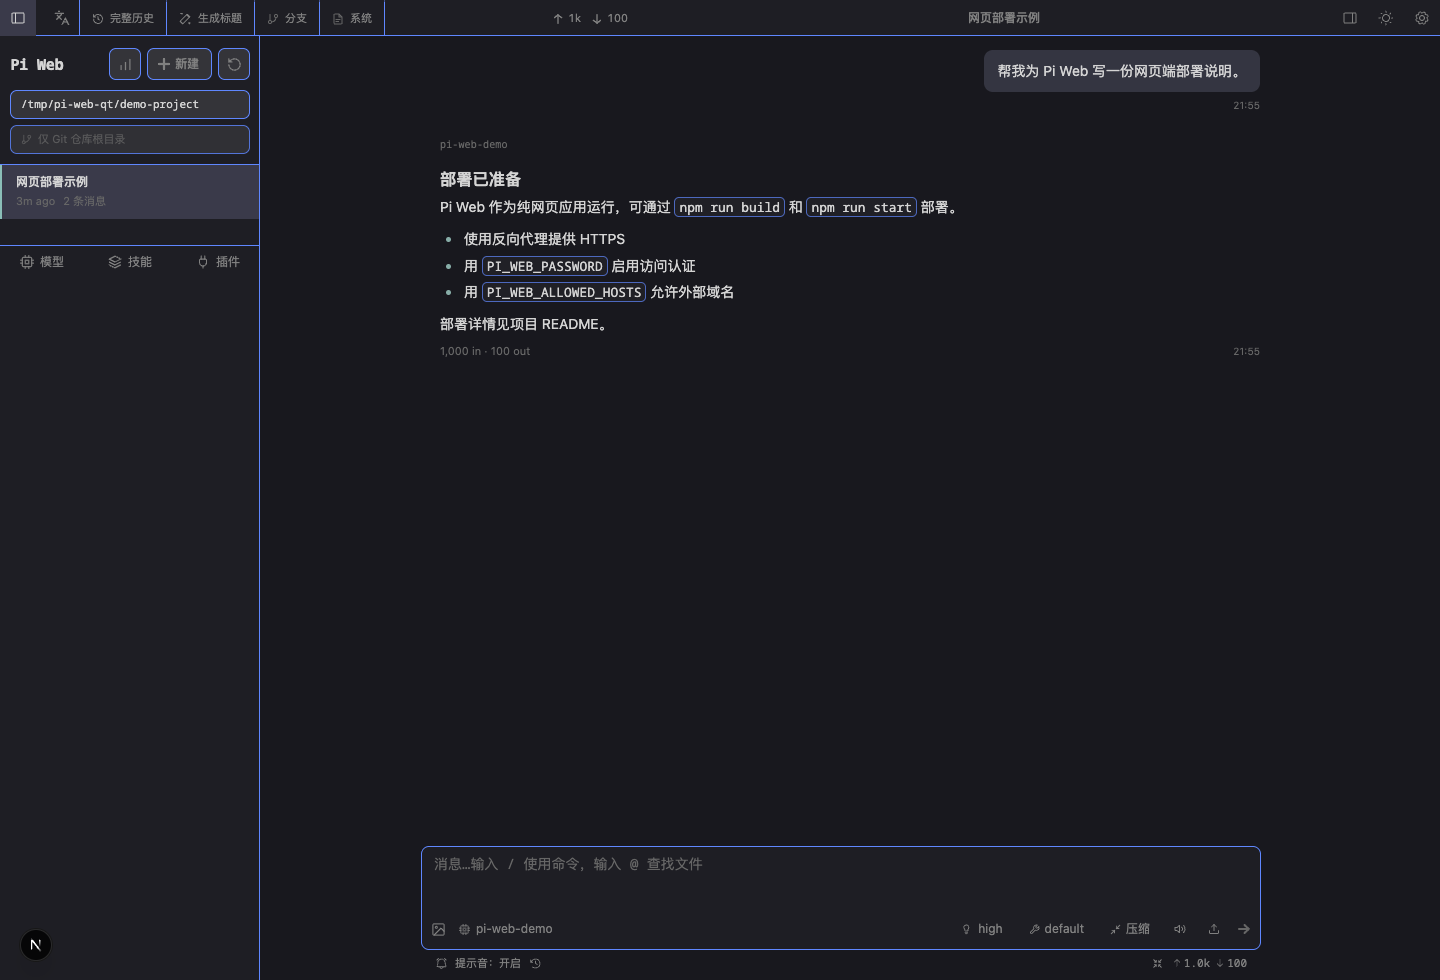
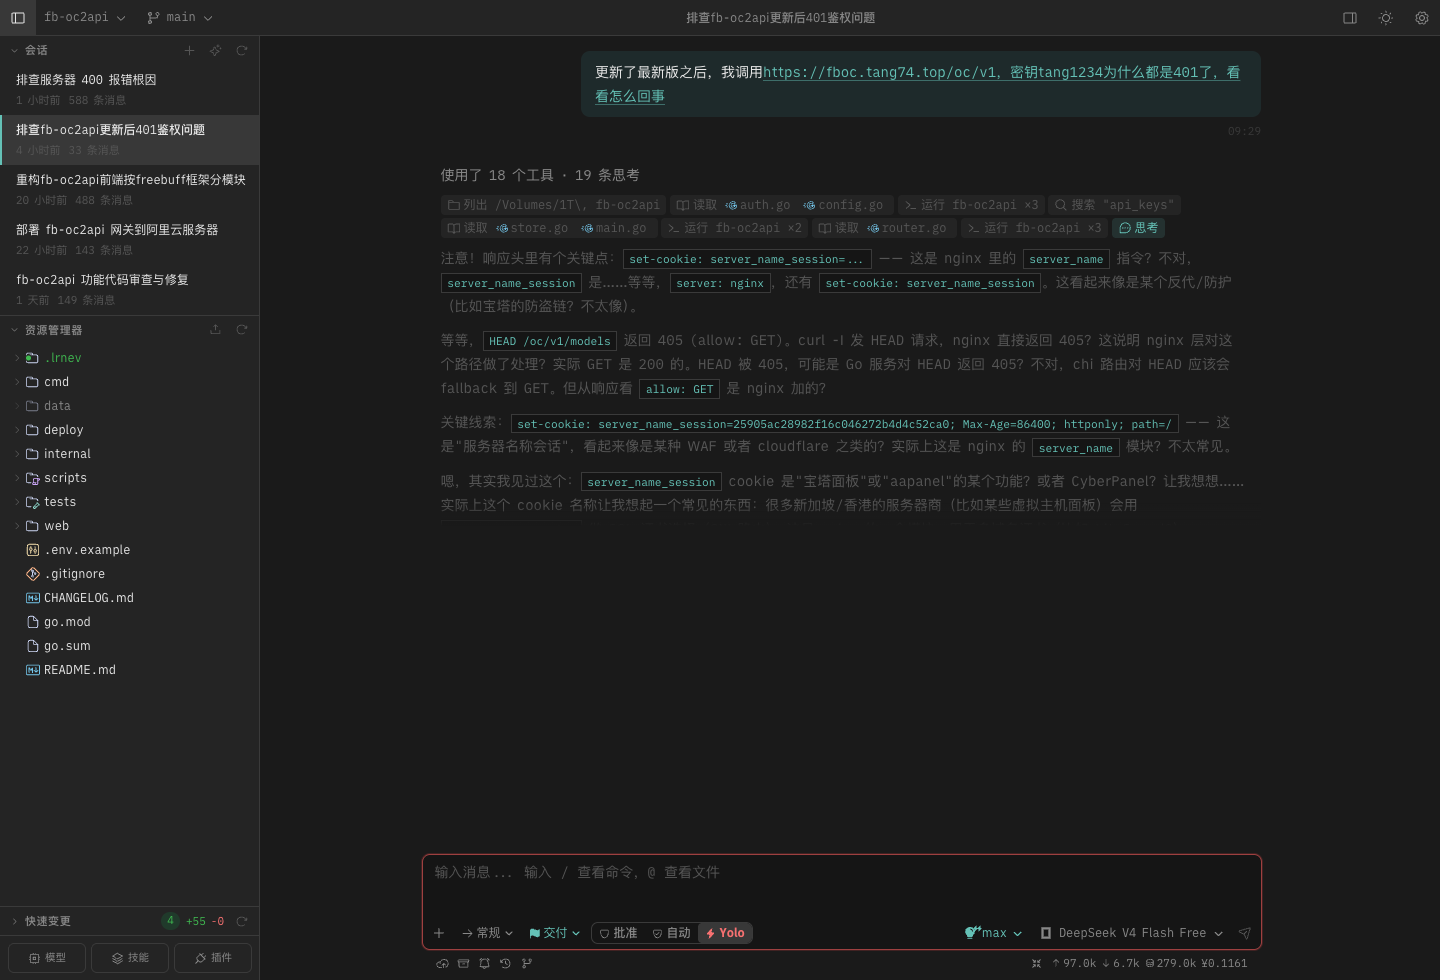
docs: 更新界面预览截图，移除移动端预览图

diff --git a/README.en.md b/README.en.md
@@ -6,10 +6,6 @@
 
 ![Pi Web workspace](./docs/screenshots/web-workspace.png)
 
-<p align="center">
-  <img src="./docs/screenshots/mobile-web.png" alt="Pi Web mobile interface" width="320" />
-</p>
-
 ## Features
 
 - Live Pi Agent responses through SSE, including tool calls and reasoning status.

diff --git a/README.md b/README.md
@@ -18,10 +18,6 @@
 
 ![Pi Web 网页工作台](./docs/screenshots/web-workspace.png)
 
-<p align="center">
-  <img src="./docs/screenshots/mobile-web.png" alt="Pi Web 移动端界面" width="320" />
-</p>
-
 ## 功能
 
 | 能力 | 说明 |
